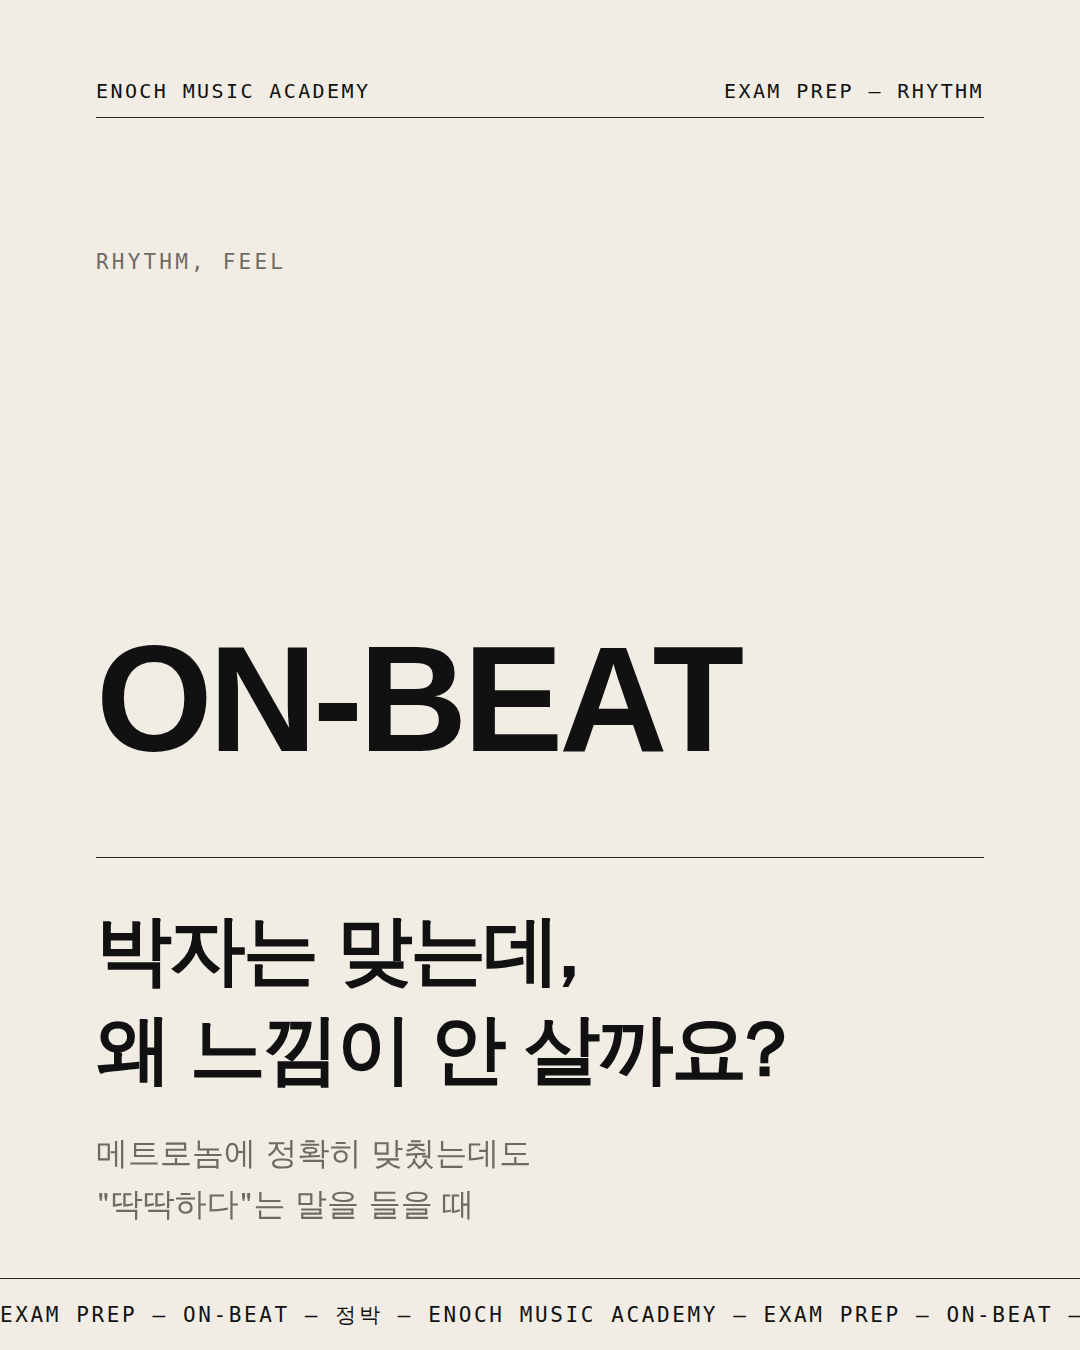
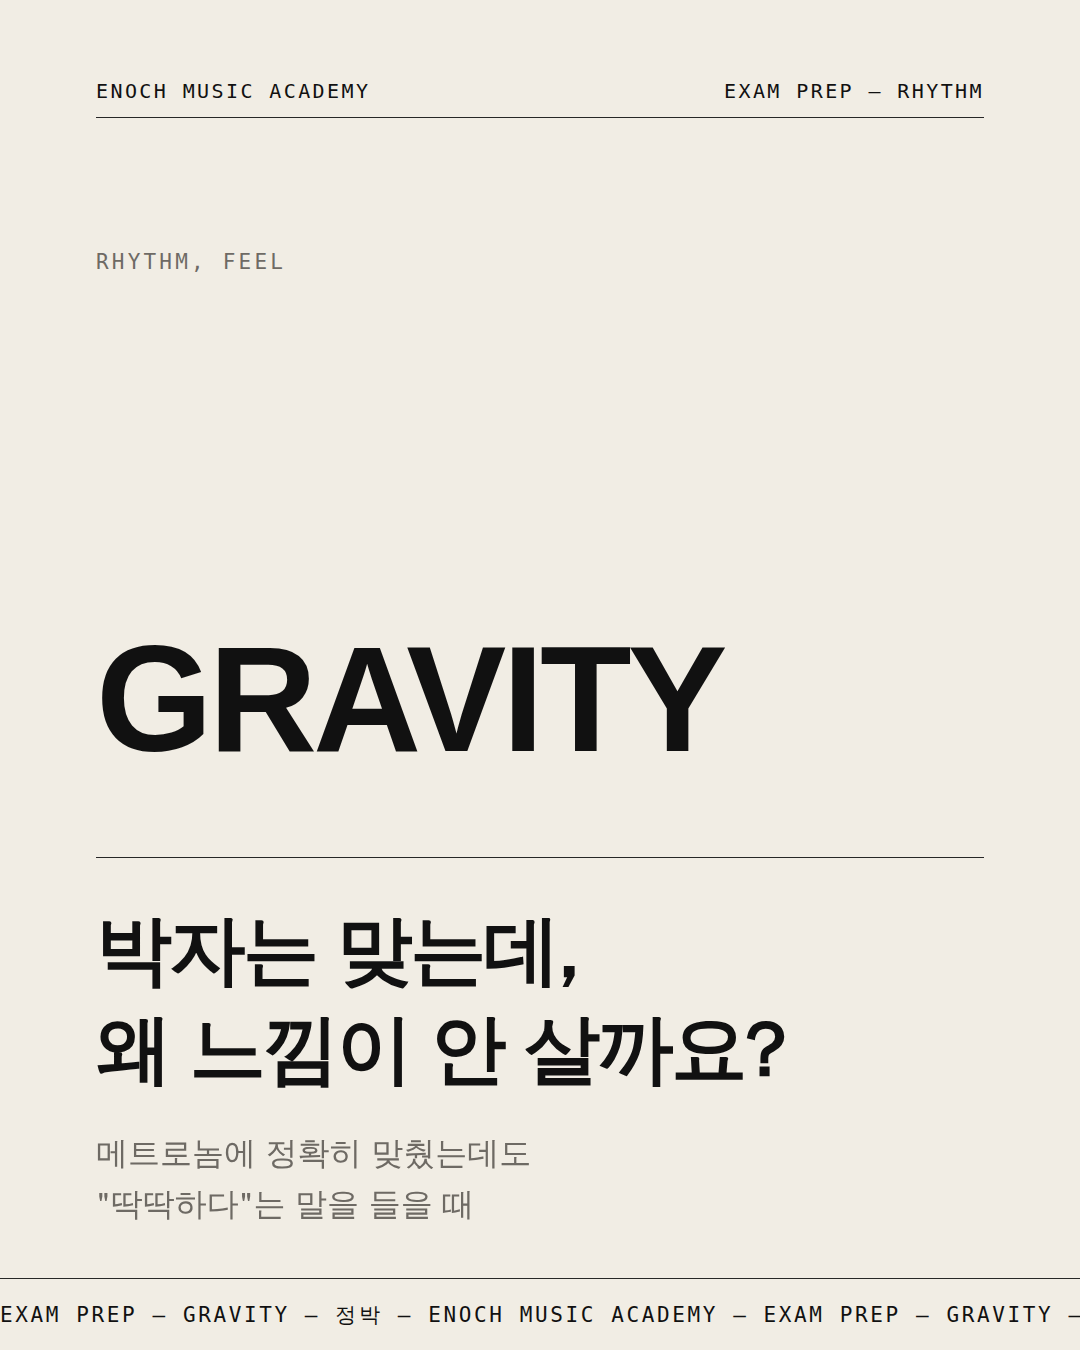
Rhythm post: drop English beat terms, cover word GRAVITY
Claude-Session: https://claude.ai/code/session_01HGbZvgMeYrbU7mY8bwfjyb

Changed region(s): [[0.1528, 0.4667, 0.7028, 0.56], [0.8861, 0.9644, 0.9778, 0.9956], [0.1833, 0.9644, 0.275, 0.9956]]

diff --git a/output/입시_리듬_정박/preview.html b/output/입시_리듬_정박/preview.html
@@ -256,12 +256,12 @@ body { font-family: var(--ko); word-break: keep-all; -webkit-font-smoothing: ant
     <div class="kicker">Rhythm, Feel</div>
     
     
-    <div class="tc-en" style="font-size:150px">On-Beat</div>
+    <div class="tc-en" style="font-size:150px">Gravity</div>
     <h1 class="tc-title">박자는 맞는데,
 왜 느낌이 안 살까요?</h1>
     <p class="tc-sub">메트로놈에 정확히 맞췄는데도
 &quot;딱딱하다&quot;는 말을 들을 때</p>
-    <div class="ticker">EXAM PREP — ON-BEAT — 정박 — ENOCH MUSIC ACADEMY — EXAM PREP — ON-BEAT — 정박 — ENOCH MUSIC ACADEMY — EXAM PREP — ON-BEAT — 정박 — ENOCH MUSIC ACADEMY — EXAM PREP — ON-BEAT — 정박 — ENOCH MUSIC ACADEMY — EXAM PREP — ON-BEAT — 정박 — ENOCH MUSIC ACADEMY — EXAM PREP — ON-BEAT — 정박 — ENOCH MUSIC ACADEMY</div>
+    <div class="ticker">EXAM PREP — GRAVITY — 정박 — ENOCH MUSIC ACADEMY — EXAM PREP — GRAVITY — 정박 — ENOCH MUSIC ACADEMY — EXAM PREP — GRAVITY — 정박 — ENOCH MUSIC ACADEMY — EXAM PREP — GRAVITY — 정박 — ENOCH MUSIC ACADEMY — EXAM PREP — GRAVITY — 정박 — ENOCH MUSIC ACADEMY — EXAM PREP — GRAVITY — 정박 — ENOCH MUSIC ACADEMY</div>
     
     
     
@@ -278,7 +278,7 @@ body { font-family: var(--ko); word-break: keep-all; -webkit-font-smoothing: ant
   </section>
 <section class="card layout-figure theme-ivory" id="card-3">
     <div class="masthead"><span>ENOCH MUSIC ACADEMY</span><span>EXAM PREP — RHYTHM</span></div>
-    <div class="kicker">On-Beat</div><h2 class="title">정박의 중력에,
+    <div class="kicker">Gravity</div><h2 class="title">정박의 중력에,
 나머지 음이 빨려 들어가요</h2><div class="figure"><svg xmlns="http://www.w3.org/2000/svg" viewBox="0 0 888 520" font-family="Pretendard, sans-serif">
 <defs><marker id="ah" viewBox="0 0 10 10" refX="8" refY="5" markerWidth="7" markerHeight="7" orient="auto-start-reverse"><path d="M1 1 L9 5 L1 9" fill="none" stroke="#111" stroke-width="1.6"/></marker></defs>
 <line x1="0" y1="330" x2="888" y2="330" stroke="#111" stroke-width="2.5"/>
@@ -325,7 +325,7 @@ body { font-family: var(--ko); word-break: keep-all; -webkit-font-smoothing: ant
 <circle cx="14" cy="492" r="13" fill="#111"/><text x="40" y="500" font-size="24" fill="#111"><tspan font-weight="700">정박</tspan> · 무게를 싣고 쿵</text>
 <circle cx="430" cy="492" r="6" fill="#111"/><text x="448" y="500" font-size="24" fill="#111"><tspan font-weight="700">사이 음</tspan> · 가볍게, 다음 정박 쪽으로</text>
 </svg>
-</div><p class="fig-note">개념도 · 정박(On-beat) — 박이 '쿵' 떨어지는 자리.
+</div><p class="fig-note">개념도 · 정박 — 박이 '쿵' 떨어지는 자리.
 그 사이의 음들은 다음 정박을 향해 끌려가듯 모여들어요.</p>
     
     

diff --git a/output/입시_리듬_정박/caption.md b/output/입시_리듬_정박/caption.md
@@ -3,7 +3,7 @@
 ## 본문
 "박자는 맞는데 왜 딱딱하게 들릴까?" 입시생들이 자주 하는 고민이에요. ENOCH은 이 고민을 정박의 중력감, 정박에 나머지 음이 빨려 들어가는 느낌으로 설명해요.
 
-정박(On-beat)은 리듬의 중심이에요. 그 사이의 음들은 따로 서 있지 않고, 다음 정박을 향해 끌려가듯 모여들어요. 이 중력감이 생길 때 리듬이 살아 움직여요. 정박만 연주해 보고, 그 위에 사이 음을 얹어 보세요. 보컬·베이스·드럼·피아노·기타, 악기는 달라도 원리는 같아요.
+정박은 리듬의 중심이에요. 그 사이의 음들은 따로 서 있지 않고, 다음 정박을 향해 끌려가듯 모여들어요. 이 중력감이 생길 때 리듬이 살아 움직여요. 정박만 연주해 보고, 그 위에 사이 음을 얹어 보세요. 보컬·베이스·드럼·피아노·기타, 악기는 달라도 원리는 같아요.
 
 연습 전에 다시 볼 수 있게 저장해 두세요.
 
@@ -16,7 +16,7 @@
 #실용음악입시 #리듬감 #그루브 #정박 #입시준비 #시흥실용음악학원 #은행동 #대야역 #에녹실용음악학원 (9개)
 
 ## 대체 텍스트 (장별 한 줄)
-1. 아이보리 바탕에 큰 영문 ON-BEAT와 한글 제목 "박자는 맞는데, 왜 느낌이 안 살까요?", 메트로놈에 정확히 맞췄는데도 "딱딱하다"는 말을 들을 때라는 문장. 하단에 반복 텍스트 띠.
+1. 아이보리 바탕에 큰 영문 GRAVITY와 한글 제목 "박자는 맞는데, 왜 느낌이 안 살까요?", 메트로놈에 정확히 맞췄는데도 "딱딱하다"는 말을 들을 때라는 문장. 하단에 반복 텍스트 띠.
 2. "이런 모습이라면, 리듬의 '무게'를 놓치고 있어요" 아래 번호 붙은 네 항목. 모든 음을 같은 세기로 친다, 음을 찍듯이 쳐서 흐름이 끊긴다, 메트로놈엔 맞는데 듣기엔 딱딱하다, 빠른 음표에서 박이 밀리거나 처진다.
 3. "정박의 중력에, 나머지 음이 빨려 들어가요" 아래 공이 튀며 정박마다 바닥에 닿고, 사이 음이 다음 정박 쪽으로 끌려가는 궤적 그림. 정박은 박이 '쿵' 떨어지는 자리라는 주석.
 4. 검은 바탕에 "무게가 옮겨 가는 걸 몸으로 느끼는 세 단계". 발로 무게 옮기기(메트로놈 60), 발과 목소리로 "쿵-따-따-따", 악기로 같은 강약 옮기기. 녹음해서 들어 보라는 문장.

diff --git a/output/입시_리듬_정박/copy.md b/output/입시_리듬_정박/copy.md
@@ -23,9 +23,9 @@
 - 한 문장 요약: 문제는 정확도가 아니라, 음마다 다른 무게예요.
 
 ## 03 핵심 (가장 강조)
-- kicker: ON-BEAT
+- kicker: GRAVITY
 - 제목: 정박의 중력에,\n나머지 음이 빨려 들어가요
-- 본문: 정박(On-beat, 박이 '쿵' 떨어지는 자리)은 리듬의 중심이에요. 그 사이의 음들은 따로 서 있지 않고, 다음 정박을 향해 끌려가듯 모여들어요. 이 중력감이 생길 때 리듬이 살아 움직여요.
+- 본문: 정박(박이 '쿵' 떨어지는 자리)은 리듬의 중심이에요. 그 사이의 음들은 따로 서 있지 않고, 다음 정박을 향해 끌려가듯 모여들어요. 이 중력감이 생길 때 리듬이 살아 움직여요.
 - 한 문장 요약: 리듬은 정박을 중심으로 나머지 음이 끌려가는 흐름이에요.
 
 ## 04 실전 연습 — 무게 이동 (v2, 2026-10-05 원장님 방향: 정박에 무게, 사이 음은 가볍게, 다음 정박으로 끌려가듯)
@@ -62,5 +62,5 @@
 ## 확인할 것
 1. ~~유튜브~~ — 연결하지 않음 (2026-10-05)
 2. ~~교육 철학 화자~~ — ENOCH 화자로 (2026-10-05). 원래 메모: 특정 강사의 내용이라면 강사 소개 연재와 묶을지, ENOCH 화자로 갈지
-3. ~~용어~~ — '정박(On-beat)'으로 확정 (2026-10-05). 원래 메모: 엄밀히 Downbeat는 마디 첫 박을 가리키기도 해서, 각 박의 앞자리를 뜻한다면 '정박(On-beat)'이 더 정확함
+3. ~~용어~~ — '정박'으로 확정 (2026-10-05). 원래 메모: 엄밀히 Downbeat는 마디 첫 박을 가리키기도 해서, 각 박의 앞자리를 뜻한다면 '정박'이 더 정확함
 4. 04장 연습 단계가 실제 ENOCH 수업 방식과 맞는지 — 맞으면 "ENOCH 수업에서도"를 붙일 수 있음 (확인 전에는 일반 연습법으로만 표기)
